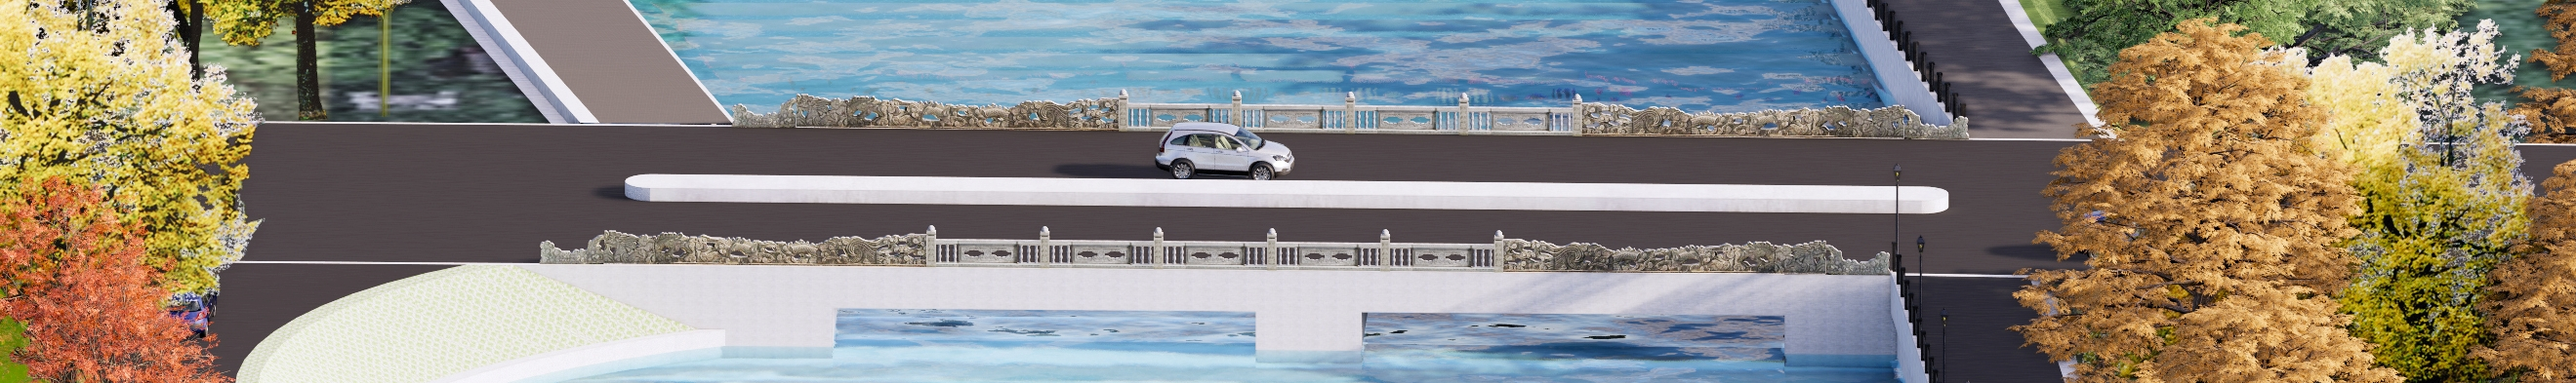
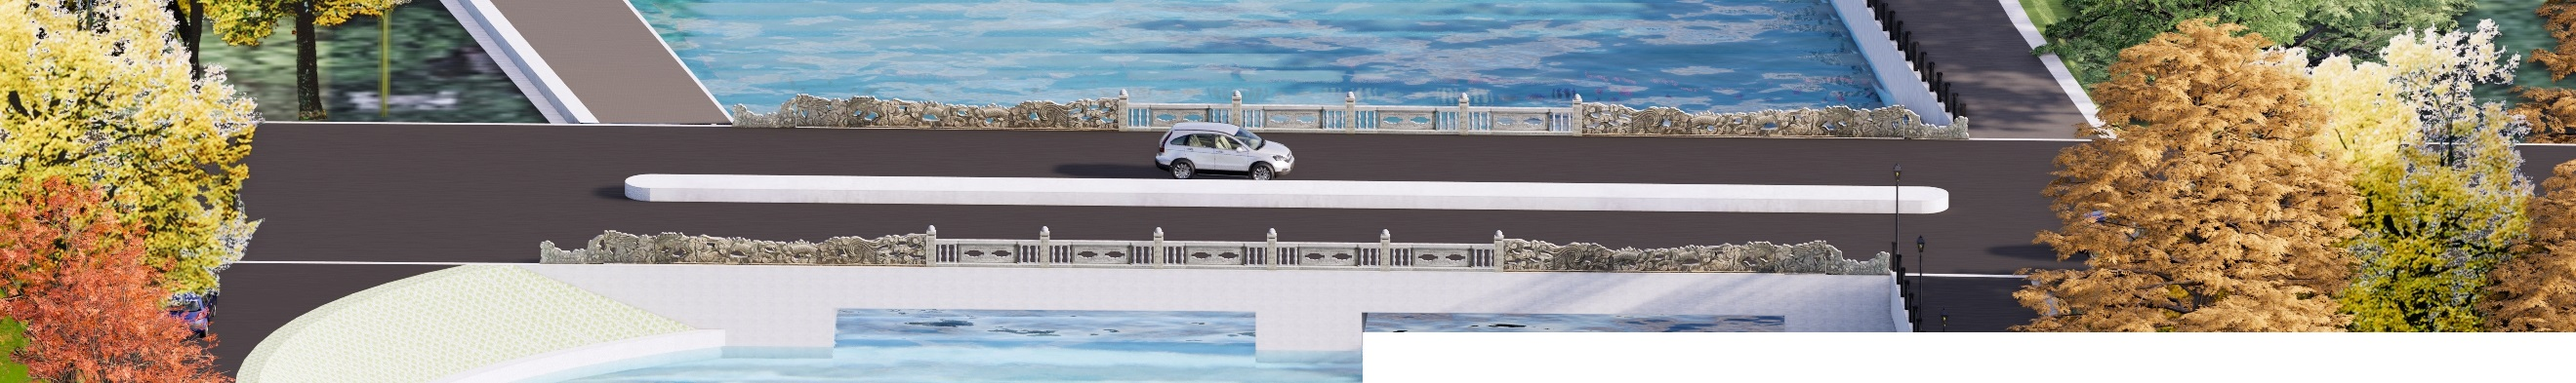
fix display

Changed region(s): [[0.5282, 0.855, 1.0, 1.0]]

diff --git a/index.html b/index.html
@@ -163,6 +163,85 @@ header:
 }
 
 /* ==========================================================================
+   APPS BANNER — HỆ THỐNG CÁC ỨNG DỤNG
+   ========================================================================== */
+.apps-banner {
+  background: #ffffff;
+  border: 2px solid #e1e4e8;
+  border-radius: 8px;
+  padding: 28px 32px;
+  margin: 0 16px 32px;
+  display: flex;
+  align-items: center;
+  gap: 24px;
+  box-shadow: 0 2px 8px rgba(26, 26, 46, 0.05);
+  transition: all 0.3s ease;
+}
+
+.apps-banner:hover {
+  border-color: #1a1a2e;
+  box-shadow: 0 4px 16px rgba(26, 26, 46, 0.1);
+}
+
+.apps-banner__icon {
+  font-size: 3rem;
+  color: #1a1a2e;
+  flex-shrink: 0;
+}
+
+.apps-banner__body {
+  flex: 1;
+}
+
+.apps-banner__title {
+  font-size: 1.3rem;
+  font-weight: 700;
+  color: #1a1a2e;
+  margin: 0 0 8px;
+}
+
+.apps-banner__desc {
+  font-size: 0.95rem;
+  color: #4a4a5e;
+  margin: 0;
+  line-height: 1.5;
+}
+
+.apps-banner__cta {
+  padding: 10px 20px;
+  background: #1a1a2e;
+  color: #ffffff !important;
+  border-radius: 6px;
+  text-decoration: none;
+  font-weight: 600;
+  font-size: 0.9rem;
+  display: inline-flex;
+  align-items: center;
+  gap: 8px;
+  transition: all 0.2s;
+  flex-shrink: 0;
+}
+
+.apps-banner__cta:hover {
+  background: #0f0f1f;
+  transform: translateY(-2px);
+  box-shadow: 0 4px 12px rgba(26, 26, 46, 0.2);
+}
+
+@media (max-width: 768px) {
+  .apps-banner {
+    flex-direction: column;
+    text-align: center;
+    padding: 20px 24px;
+  }
+  
+  .apps-banner__cta {
+    width: 100%;
+    justify-content: center;
+  }
+}
+
+/* ==========================================================================
    LATEST POSTS CARD SECTION — PHONG CÁCH KỸ THUẬT HIỆN ĐẠI
    ========================================================================== */
 .latest-posts-section {

diff --git a/_posts/2025-12-21-camclay.md b/_posts/2025-12-21-camclay.md
@@ -1,5 +1,5 @@
 ---
-title: "Modified Cam-Clay: Mô phỏng Ứng suất-Biến dạng Đất Sét"
+title: "Modified Cam-Clay: Mô phỏng ứng suất - biến dạng cho đất Sét"
 author_profile: true
 author_name: "HST.AI"
 date: 2025-12-21 10:00:00 +0700
@@ -50,9 +50,9 @@ Bài viết này trình bày phương pháp triển khai mô hình MCC mô phỏ
 
 ---
 
-## 1. Tham Số Mô Hình Modified Cam-Clay
+## 1. Tham số mô hình MCC
 
-### 1.1 Các Thông Số Cơ Bản
+### 1.1 Các thông số cơ bản
 
 Mô hình MCC được kiểm soát bởi 7 thông số địa kỹ thuật chính:
 
@@ -66,7 +66,7 @@ Mô hình MCC được kiểm soát bởi 7 thông số địa kỹ thuật chí
 | Tham số đường NCL | $$N$$ | Normal Consolidation Line parameter | - | 2.5 |
 | Hệ số Poisson | $$\nu$$ | Poisson's ratio | - | 0.15 |
 
-### 1.2 Các khái nhiệm cính
+### 1.2 Các khái nhiệm chính
 
 **Ứng Suất Hữu Hiệu ($$p'$$ hoặc $$p$$)**  
 Ứng suất hữu hiệu là sự kết hợp của ứng suất tổng và áp lực nước lỗ rỗng:
@@ -90,7 +90,7 @@ $$f = q^2 - M^2 p'(p_c - p') = 0$$
 
 Triển khai mô hình MCC được chia thành 6 phần chính:
 
-### 2.1 Nhập Thư Viện Cần Thiết
+### 2.1 Tham số tính toán
 
 ```julia
 using Plots, LinearAlgebra, DelimitedFiles, Statistics, FileIO
@@ -104,7 +104,7 @@ gr()  # Use GR backend for faster plotting
 - **Statistics**: Hàm thống kê
 - **FileIO**: Xử lý tệp và định dạng
 
-### 2.2 Khởi Tạo Thông Số
+### 2.2 Khởi tạo thông số
 
 ```julia
 # Input Parameters for Modified Cam-Clay
@@ -136,7 +136,7 @@ de = ide / 100      # Strain increment (decimal)
 - **analysis**: Chọn loại thử nghiệm (1=thoát nước, 2=không thoát nước)
 - **iteration**: Số bước tính toán (7500 → biến dạng trục ≈ 75%)
 
-### 2.3 Khởi Tạo Biến Trạng Thái
+### 2.3 Khởi tạo trạng thái ứng suất
 
 ```julia
 # Compute initial state variables
@@ -169,27 +169,27 @@ es = zeros(iteration)     # Axial strain array
 - Nếu OCR > 1: Đất cố kết quá cố cố kết (Over-Consolidated)
 - Nếu OCR < 1: Trạng thái tiền cố kết (không phổ biến)
 
-### 2.4 Vòng Lặp Ứng Suất-Biến Dạng
+### 2.4 Ứng suất, biến dạng
 
 Vòng lặp chính thực hiện các bước tính toán, mỗi bước bao gồm:
 
-1. **Xác định Mô-đun Đàn Hồi**
+1. **Xác định mô đun đàn hồi**
    $$K = \frac{V \cdot p}{κ}, \quad G = \frac{3K(1-2ν)}{2(1+ν)}$$
 
-2. **Ma Trận Độ Cứng Đàn Hồi (6×6)**
+2. **Ma trận độ cứng đàn hồi (6×6)**
    - Đường chéo chính: $$K + \frac{4G}{3}$$
    - Ngoài đường chéo: $$K - \frac{2G}{3}$$
    - Phần cắt: $$G$$
 
-3. **Kiểm Tra Trạng Thái Chảy**
+3. **Kiểm tra trạng thái chảy**
    - Nếu $$f < 0$$: Sử dụng ma trận đàn hồi
    - Nếu $$f ≥ 0$$: Sử dụng ma trận đàn dẻo
 
-4. **Xác định Biến Dạng Tương Ứng**
+4. **Xác định biến dạng**
    - Triaxial Drained: $$d\varepsilon_1 = de$$, $$d\varepsilon_2 = d\varepsilon_3$$ từ điều kiện biên
    - Triaxial Undrained: $$d\varepsilon_1 = de$$, $$d\varepsilon_2 = d\varepsilon_3 = -\frac{de}{2}$$
 
-5. **Cập Nhật Ứng Suất**
+5. **Cập nhật ứng suất**
    $$d\sigma = \mathbf{D} \cdot d\varepsilon$$
 
 ```julia
@@ -300,19 +300,19 @@ end
 
 ---
 
-## 3. Kết Quả Mô Phỏng
+## 3. Kết quả tính toán
 
-### 3.1 Đặc Tính Mặt Chảy (Yield Surface)
+### 3.1 Mặt chảy (Yield Surface)
 
-**Đường Cố Kết Bình Thường (Normal Consolidation Line - NCL)**  
+**Đường cố kết bình thường (Normal Consolidation Line - NCL)**  
 Trong không gian e-ln(p'), đất sét cố kết bình thường sẽ nằm trên:
 $$e = N - \lambda \ln(p')$$
 
-**Đường Trạng Thái Tới Hạn (Critical State Line - CSL)**  
+**Đường trạng thái tới hạn (Critical State Line - CSL)**  
 Khi đất chảy hết sức (critical state), nó tuân theo:
 $$e = \Gamma - \lambda \ln(p')$$
 
-**Mặt Chảy Modified Cam-Clay**  
+**Mặt chảy Modified Cam-Clay**  
 Trong không gian $$p'-q$$, bề mặt chảy có dạng ellipse:
 $$q = M \cdot p' \quad \text{(Critical State Line slope)}$$
 $$f = q^2 - M^2 p'(p_c - p') = 0$$
@@ -338,9 +338,9 @@ Gamma = 1 + void[end] + λ * log(p[end])
 eCSL = Gamma .- λ .* log.(pCSL) .- 1
 ```
 
-### 3.2 Phân Tích Toàn Diện
+### 3.2 Phân tích tổng thể
 
-#### Biểu Đồ 1: Ứng Suất Lệch vs Biến Dạng Trục
+#### Biểu Đồ 1: Ứng suất lệch, biến dạng trục
 
 $$\text{Trục X}: \varepsilon_a (\%) = \frac{\Delta L}{L_0} \times 100$$
 $$\text{Trục Y}: q = \sigma_1' - \sigma_3' \text{ (kPa)}$$
